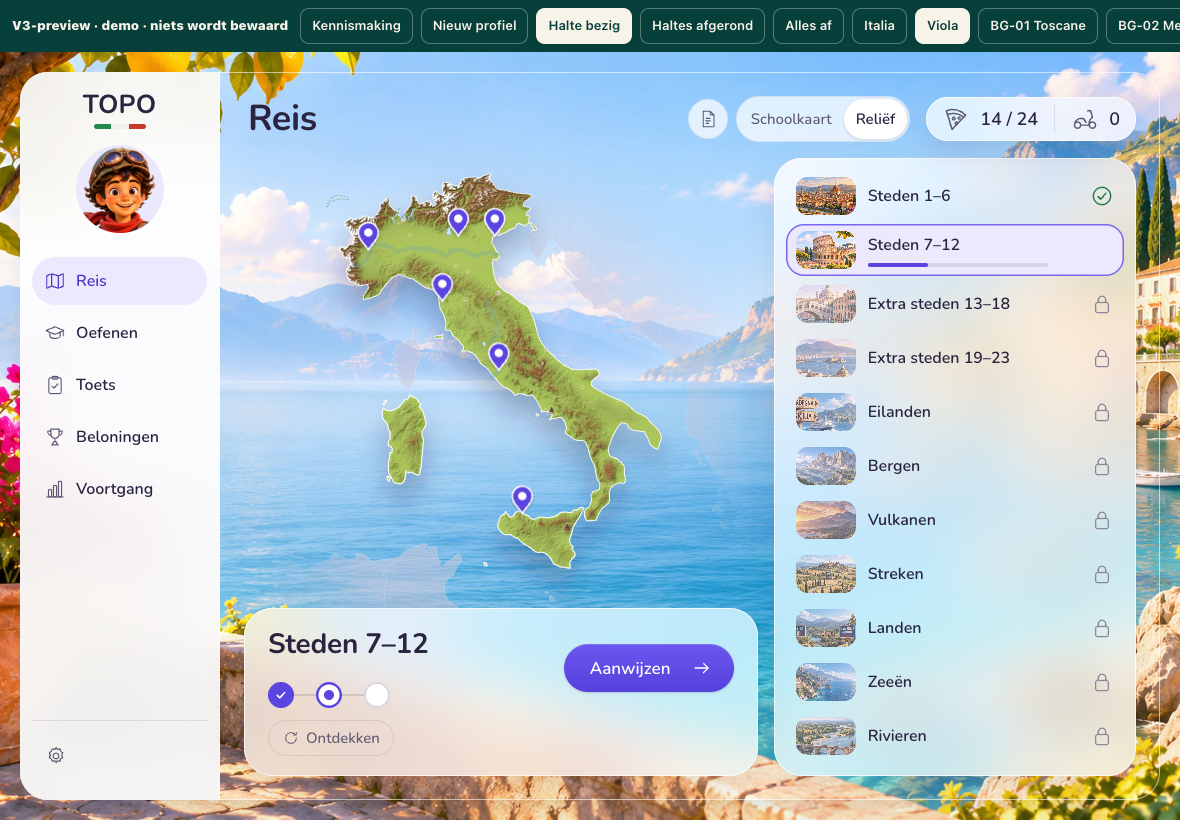
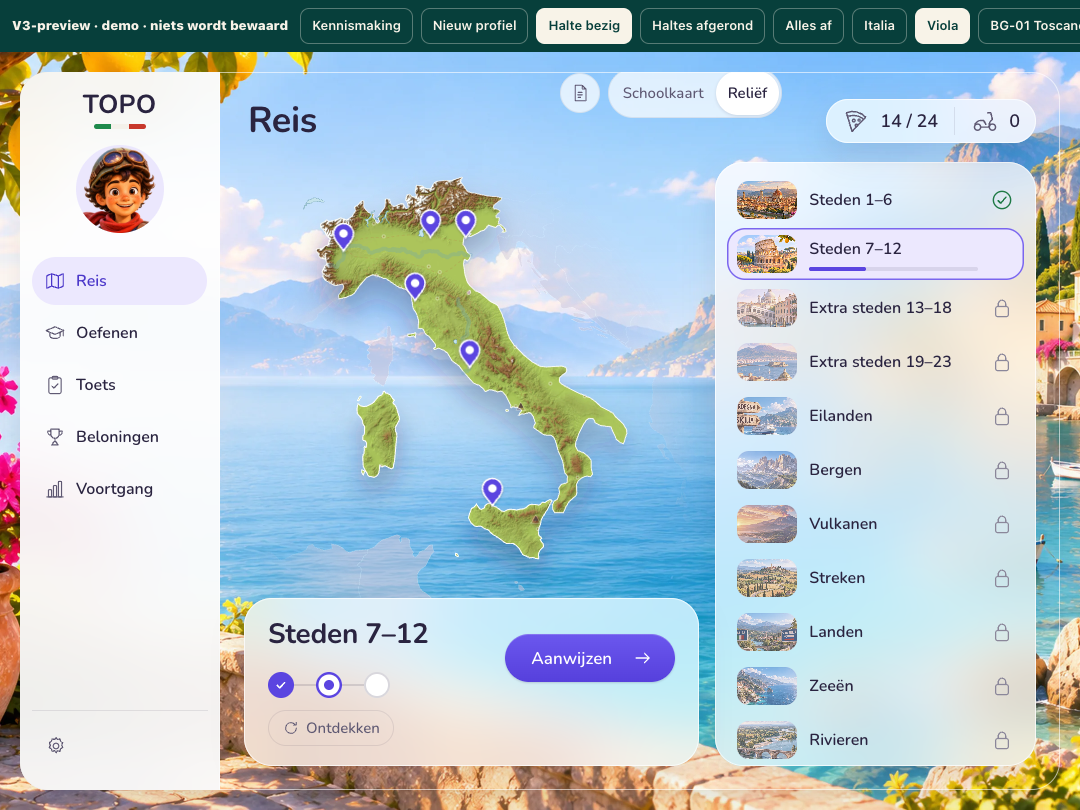
fix(v3): maak kaartschakelaar betrouwbaar aanraakbaar (ronde 3 punt 1)

diff --git a/scripts/v3/ronde3.css b/scripts/v3/ronde3.css
@@ -1,0 +1,4 @@
+/* Ronde 3: targeted presentation repairs over the unchanged V2 engine. */
+.v3Reis .v3MapTools{position:relative;z-index:3;pointer-events:auto}
+.v3Reis .v3Switch .v3Btn{min-height:44px;min-width:44px;touch-action:manipulation;pointer-events:auto}
+.v3Map[data-relief=off] :is(.atlasTerrain,.v3RCoast,.v3RSea,.v3RShadow){display:none!important}

diff --git a/scripts/qa-v3-ronde3.py b/scripts/qa-v3-ronde3.py
@@ -1,0 +1,43 @@
+#!/usr/bin/env python3
+"""Targeted Round 3 screen checks; two requested viewports, overwrite final evidence."""
+import argparse,asyncio,hashlib,importlib.util,json,pathlib
+from playwright.async_api import async_playwright
+ROOT=pathlib.Path(__file__).resolve().parent.parent
+OUT=ROOT/'docs/qa/v3-stijlbeeld/final'
+spec=importlib.util.spec_from_file_location('screen',ROOT/'scripts/qa-v3-afwerking.py');q=importlib.util.module_from_spec(spec);spec.loader.exec_module(q)
+q.HTML=ROOT/'output/html/TOPO-V3-Reis-Preview.html'
+async def act(p,selector,touch=False):
+ n=p.locator(selector).filter(visible=True).first
+ await (n.tap(timeout=2500) if touch else n.click(timeout=2500))
+ await p.wait_for_timeout(200)
+async def check(p,n,touch):
+ if n==1:
+  await p.evaluate("document.body.dataset.mapTheme='discovery'")
+  await act(p,'.v3MapTools [data-relief=false]',touch)
+  assert await p.locator('.v3MapStage .v3Map').get_attribute('data-relief')=='off'
+  assert await p.locator('.v3MapStage .atlasTerrain').evaluate("n=>getComputedStyle(n).display")=='none'
+  assert (await p.locator('.v3Switch button').first.bounding_box())['height']>=44
+  await act(p,'.v3MapTools [data-relief=true]',touch)
+  assert await p.locator('.v3MapStage .v3Map').get_attribute('data-relief')=='on'
+ return 'reis'
+async def main(point):
+ initial=hashlib.sha256(q.HTML.read_bytes()).hexdigest();runs={}
+ async with async_playwright() as pw:
+  b=await pw.chromium.launch(executable_path=q.MAC_CHROME)
+  for vp,(w,h) in {'desktop':(1440,900),'ipad-liggend':(1080,810)}.items():
+   c=await b.new_context(viewport={'width':w,'height':h},has_touch=vp!='desktop');p=await c.new_page();errors=[];p.on('pageerror',lambda e:errors.append(str(e)))
+   await (await c.new_cdp_session(p)).send('Emulation.setEmulatedMedia',{'features':[{'name':'prefers-reduced-transparency','value':'no-preference'}]})
+   await p.goto(q.HTML.as_uri()+'#bezig/bg03');await p.wait_for_timeout(650)
+   try:screen=await check(p,point,vp!='desktop')
+   except Exception:
+    print(await p.locator('.v3MapTools').evaluate('(n)=>{const r=n.getBoundingClientRect();return {rect:r.toJSON(),hits:document.elementsFromPoint(r.x+r.width/2,r.y+r.height/2).slice(0,5).map(x=>x.tagName+"."+x.className)}}'))
+    raise
+   assert not errors,errors
+   await p.screenshot(path=str(OUT/f'{screen}-{vp}.png'))
+   runs[vp]={'viewport':[w,h],'screen':screen,'errors':errors};await c.close()
+  await b.close()
+ assert initial==hashlib.sha256(q.HTML.read_bytes()).hexdigest()
+ path=OUT/'ronde3.json';data=json.loads(path.read_text()) if path.exists() else {};data[str(point)]={'previewSha256':initial,'runs':runs,'pass':True};path.write_text(json.dumps(data,indent=2)+'\n')
+ print('Ronde 3 punt',point,'PASS',flush=True)
+if __name__=='__main__':
+ parser=argparse.ArgumentParser();parser.add_argument('--point',type=int,choices=range(1,21),default=1);asyncio.run(main(parser.parse_args().point))
